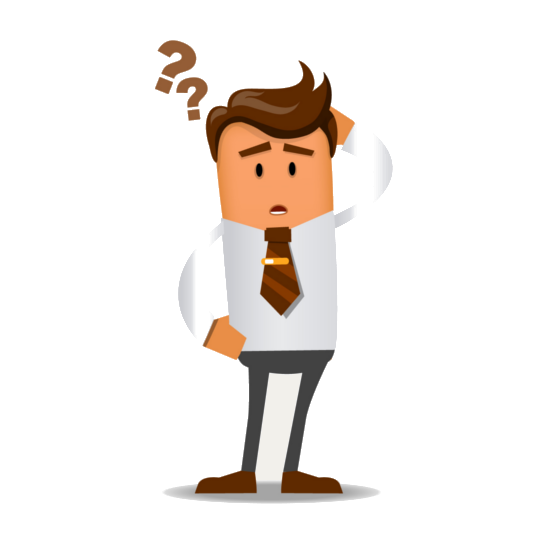
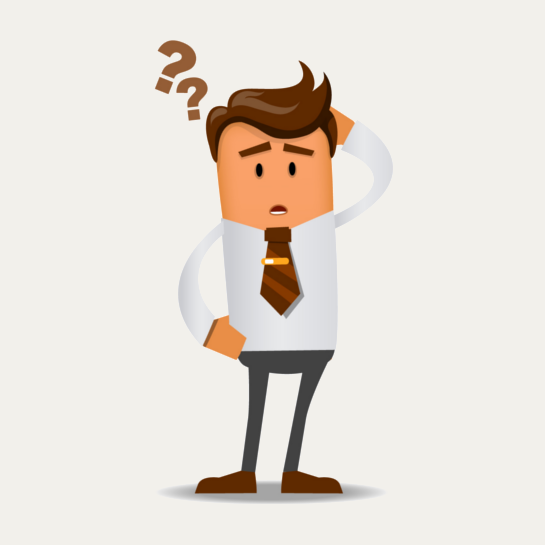
+ mudando as cores

Changed region(s): [[0.6239, 0.2183, 0.7174, 0.4055], [0.3431, 0.4367, 0.4055, 0.6239]]

diff --git a/common-css/styles.css b/common-css/styles.css
@@ -20,7 +20,7 @@ html{ font-size: 100%; height: 100%;  overflow-x: hidden; touch-action: manipula
 
 body{ font-size: 15px; font-family: 'Roboto', sans-serif; width: 100%; height: 100%; margin: 0; font-weight: 300;
 	-webkit-font-smoothing: antialiased; -moz-osx-font-smoothing: grayscale; word-wrap: break-word; 
-	background: #FFF; color: #000; position: relative;} 
+	background: #f2f0eb; color: #000; position: relative;} 
 
 header  ul, li{ margin: 0; padding: 0; font-weight: 300; }
 footer  ul, li{ margin: 0; padding: 0; font-weight: 300; }
@@ -78,14 +78,15 @@ footer li{ list-style: none; display: inline-block; }
 3. MENU
 --------------------------------- */
 
-header img{ max-width: 100px; }
+header img{ max-width: 130px; }
 
-header a{font-weight: 600}
-header a:hover{color: FFF!important; border-bottom: 3px solid #FF5126!important;}
+header a{font-weight: 900!important}
+header a:hover{color: FFF!important; border-bottom: 3px solid #FFF!important; font-weight: 900!important}
 
 /* .nav-link.active{color: FFF!important; border-bottom: 3px solid #FF5126!important;} */
 
-.bg-inverse { background-color: #333 !important; }
+/* .bg-inverse { background-color: #333 !important; } */
+.bg-dark { background-color: #f29225 !important; box-shadow: 0 4px 8px 0 rgba(0, 0, 0, 0.2), 0 8px 20px 0 rgba(0, 0, 0, 0.19)}
 
 /* ---------------------------------
 5. SINGLE POST
@@ -173,7 +174,8 @@ header a:hover{color: FFF!important; border-bottom: 3px solid #FF5126!important;
 10. FOOTER
 --------------------------------- */
 
-footer{ padding: 70px 0 30px; background: #333; color: #fff }
+/* footer{ padding: 70px 0 30px; background: #333; color: #fff } */
+footer{ padding: 70px 0 30px; background: #f29225; color: #fff }
 
 footer .footer-section{ margin-bottom: 40px; }
 
@@ -215,13 +217,13 @@ footer .icons > li > a:hover{ transform: translateY(-2px); box-shadow: 5px 10px 
 @media screen and (max-width: 768px){.inovativa {max-width: 50%}}
 @media screen and (max-width: 370px){.inovativa {max-width: 100%}}
 
-footer p{ color: #FFF!important}
+footer p{ color: #FFF!important; font-weight: 800!important;}
 
 footer a:link,
 footer a:visited,
 footer a:active,
 footer a:focus { color: #FFF!important; text-decoration: none; }
-footer a:hover {color: #FFF!important; text-decoration: none; border-bottom: 3px solid #FF5126;}
+footer a:hover {color: #FFF!important; text-decoration: none; border-bottom: 3px solid #FFF;}
 
 .title a:link,
 .title a:visited,
@@ -289,7 +291,7 @@ font-weight: 500!important;
 .marketing{
 	display:flex;
   	align-items:center;
-	padding-top: 15px;
+	padding-top: 55px;
 	height: 100vh;
 	padding-right: 15px;
 }
@@ -377,7 +379,8 @@ font-weight: 500!important;
 --------------------------------- */
 #contato{
 	height: 100vh;
-	padding-top: 15px;
+	padding-top: 45px;
+	margin-bottom: 35px;
 }
 
 #contato form{

diff --git a/pt/index2.html b/pt/index2.html
@@ -24,7 +24,7 @@
     		<button class="navbar-toggler" type="button" data-toggle="collapse" data-target="#navbars" aria-controls="navbarsExample04" aria-expanded="false" aria-label="Toggle navigation">
         <span class="navbar-toggler-icon"></span>
       </button>
-      	<img class="navbar-brand" src="../images/logos/cyber_logo_borda_laranja.png">
+      	<img class="navbar-brand" src="../images/logos/cyber_logo.png">
       	<div class="collapse navbar-collapse" id="navbars">
         		<ul class="navbar-nav ml-auto">
           		<li class="nav-item">
@@ -177,16 +177,16 @@
 	<h4>PARCEIROS</h4>
 </div>
     <div class="col-sm-3">
-      <a href="https://www.rnp.br/servicos/seguranca"> <img src="../images/logos/cais2.png" alt="CAIS" class="img-responsive"></a> 
+      <a href="https://www.rnp.br/servicos/seguranca"> <img src="../images/logos/cais.png" alt="CAIS" class="img-responsive"></a> 
     </div>
     <div class="col-sm-3"> 
-      <a href="https://www.rnp.br/"> <img src="../images/logos/rnp2.png" alt="RNP" class="img-responsive"></a>    
+      <a href="https://www.rnp.br/"> <img src="../images/logos/rnp.png" alt="RNP" class="img-responsive"></a>    
     </div>
     <div class="col-sm-3"> 
-      <a href="http://www5.usp.br/"> <img src="../images/logos/usp2.png" alt="USP" class="img-responsive"></a>    
+      <a href="http://www5.usp.br/"> <img src="../images/logos/usp.png" alt="USP" class="img-responsive"></a>    
     </div>
     <div class="col-sm-3"> 
-       <a href="http://www.utfpr.edu.br"> <img src="../images/logos/utfpr2.png" alt="UTFPR" class="img-responsive"></a>   
+       <a href="http://www.utfpr.edu.br"> <img src="../images/logos/utfpr.png" alt="UTFPR" class="img-responsive"></a>   
     </div>
   </div>
 </div>
@@ -233,7 +233,7 @@
 				<div class="col-lg-4 col-md-6">
 					<div class="footer-section">
 
-						<a class="logo" href="index.html"><img class="footer-logo" src="../images/logos/cyber_logo_borda_laranja.png" alt="Logo CyberSecurity++"></a><br/><br/>
+						<a class="logo" href="index.html"><img class="footer-logo" src="../images/logos/cyber_logo.png" alt="Logo CyberSecurity++"></a><br/><br/>
 						<p><i class="copyright fa fa-envelope"></i> <a class="footer-link" href="mailto:comercial@cybersecurityplus.com.br">comercial@cybersecurityplus.com.br</a></p>
 						<p><i class="copyright fa fa-phone"></i> <i class="copyright fa fa-whatsapp"></i> (44) 9 8802-8242</p>
 						<p><i class="copyright fa fa-home"></i><!-- Av. das Avenidas<br> CEP: 87302-180 <br>  --> Campo Mourão - PR</p>
